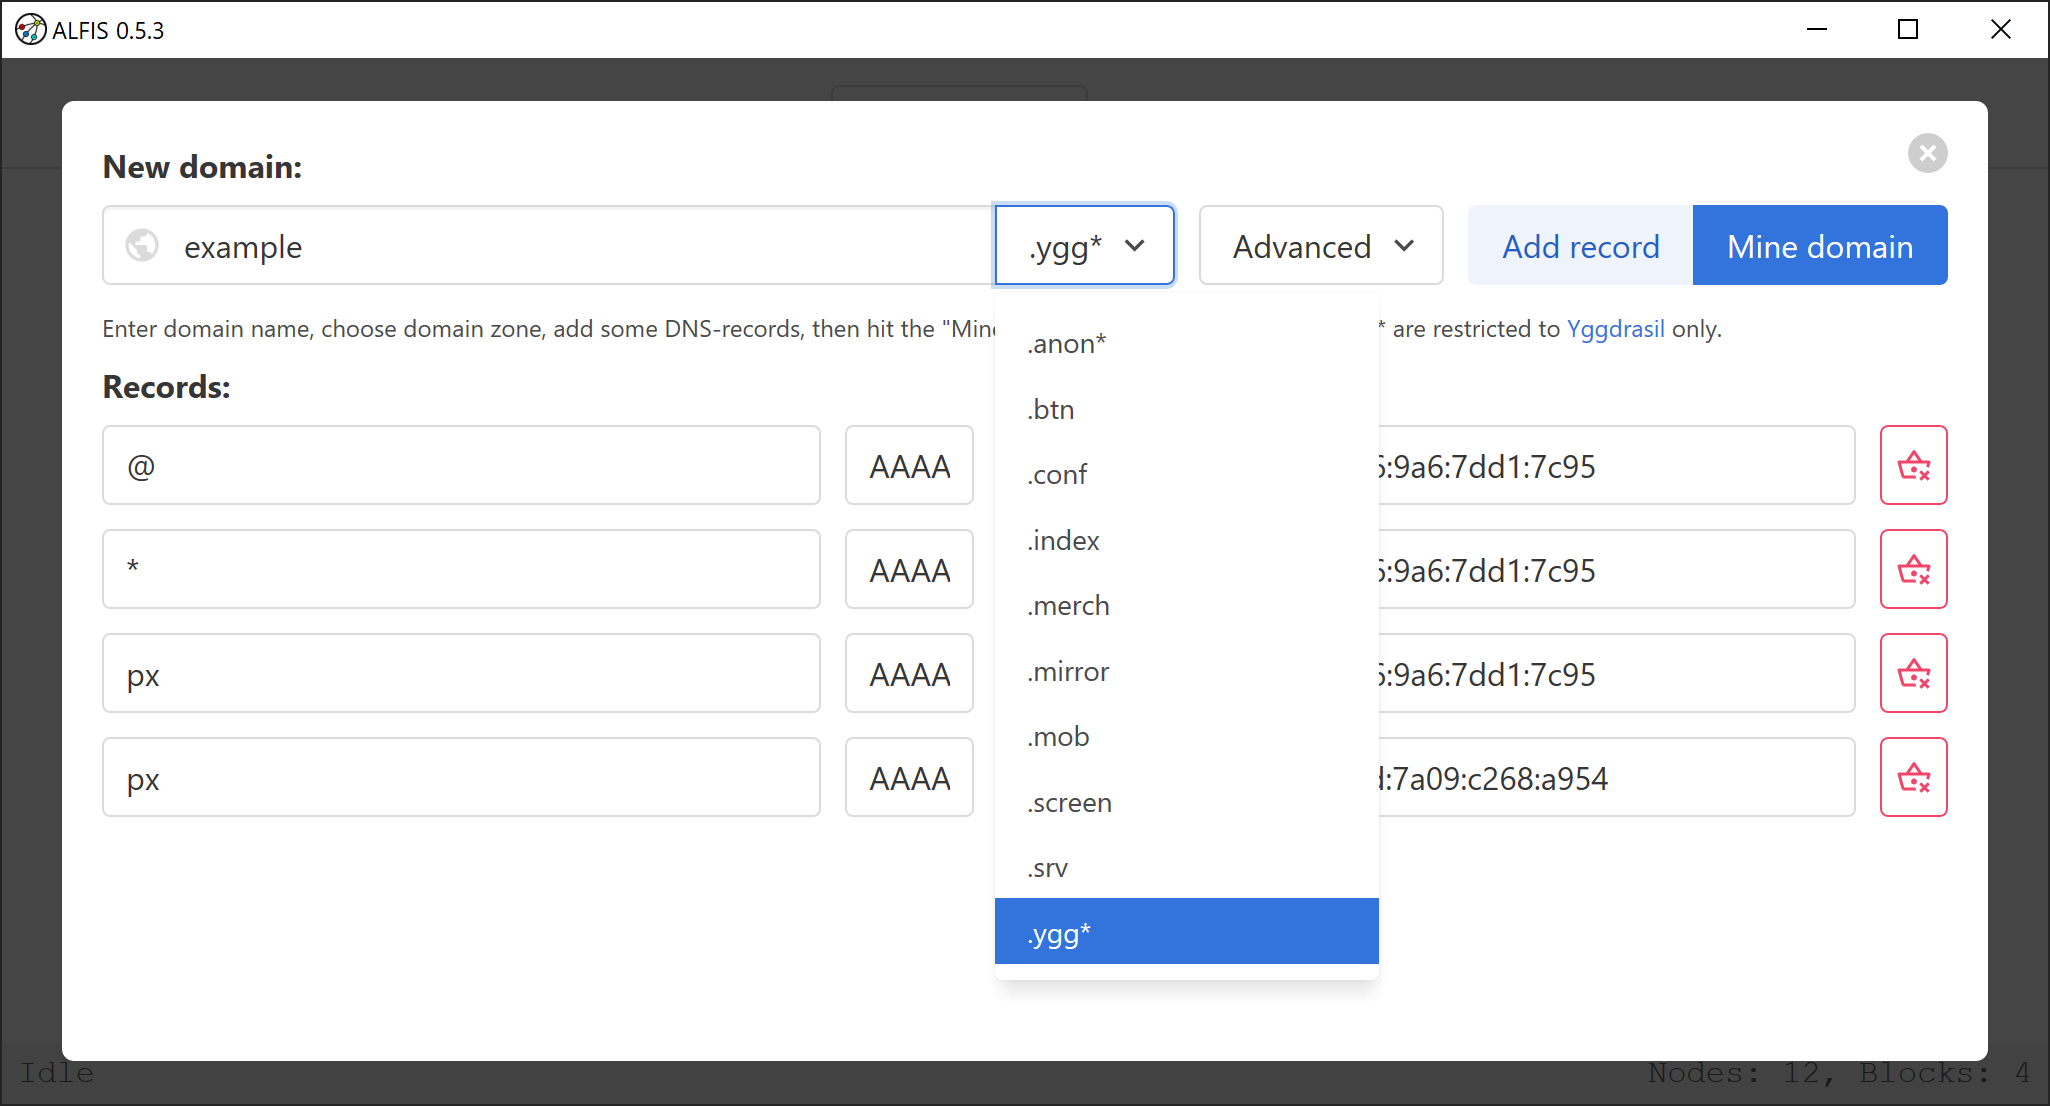
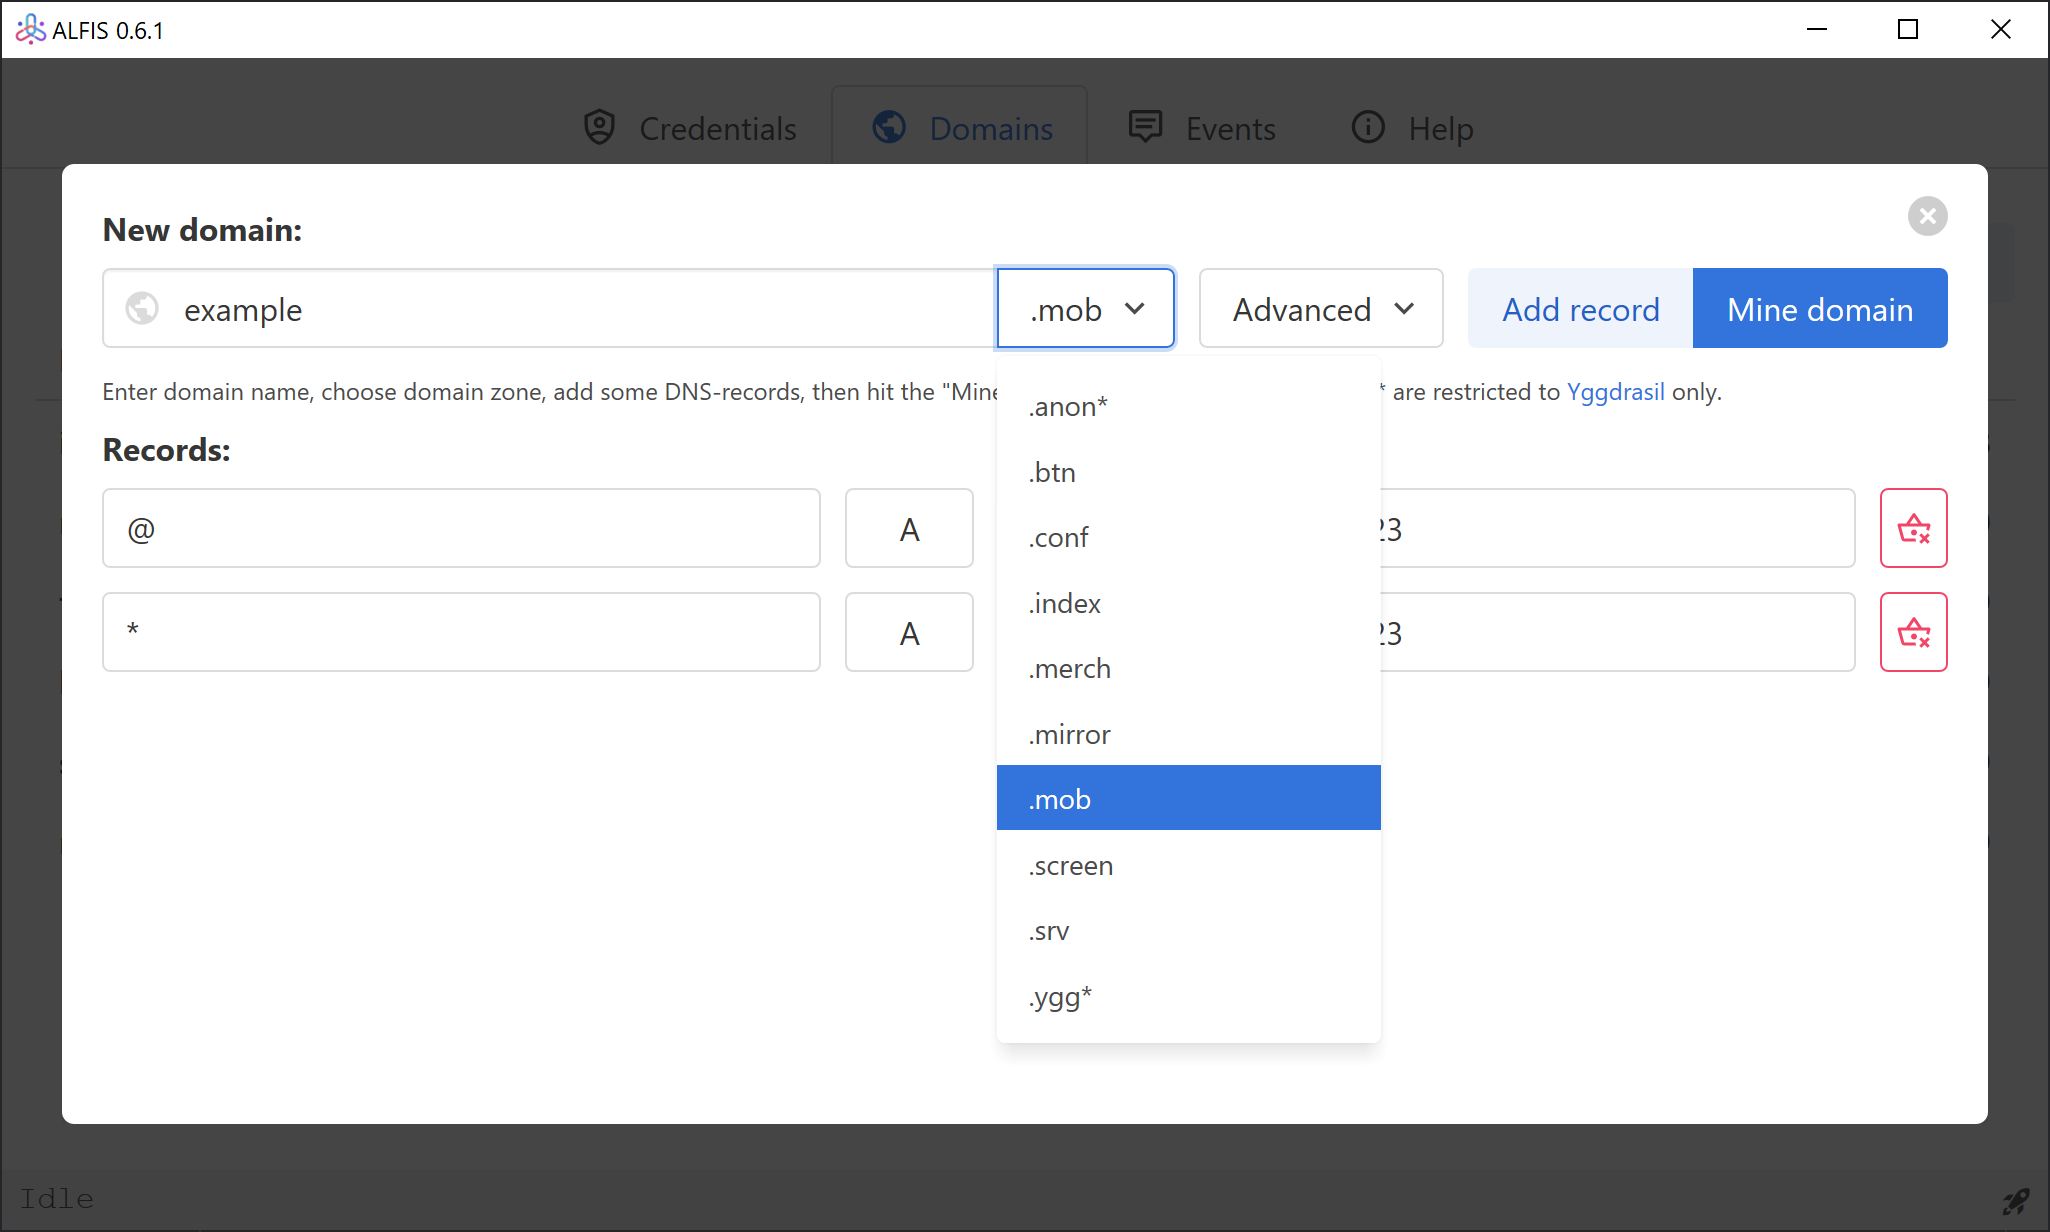
Updated readme.

diff --git a/README.md b/README.md
@@ -8,10 +8,9 @@ This project represents a minimal blockchain without cryptocurrency, capable of 
 
 ![Screenshot](img/keys.png)
 
-![Screenshot](img/domains.png)
+![Screenshot](img/domains2.png)
 
-## Note
[1 lines of base64/hex data omitted]
+![Screenshot](img/domains.png)
 
 ## How it works?
 Every node connects to its siblings and synchronizes the domain database.
@@ -25,8 +24,7 @@ But, `.anon` and `.ygg` are bound to have IP-addresses from Yggdrasil Network on
 ### On every OS
 You can download and run already built binaries from [releases](https://github.com/Revertron/Alfis/releases), or you can build project yourself.
 
-You can build Alfis by issuing `cargo build` and `cargo run` commands in a directory of cloned repository.
-If you want to build release version you need to do `cargo build --release` as usual.
+You can build Alfis by issuing `cargo build --release` and `cargo run --release` commands in a directory of cloned repository.
 
 ### ![Windows Logo](/img/windows.svg) On Windows
 You don't need any additional steps to build Alfis, just stick to the MSVC version of Rust.
@@ -57,7 +55,7 @@ yay -S alfis
 ```
 
 ### ![NixOS Logo](https://nixos.org/favicon.ico) On Nix/NixOS
-`nix-shell` in this repo and then run `cargo build` and `cargo install` after you have entered the shell.
+`nix-shell` in this repo and then run `cargo build --release` and `cargo install` after you have entered the shell.
 
 ## Installation
 
@@ -97,5 +95,5 @@ If you want it to load config from another file you can command it so: `alfis -c
 ## Roadmap
 1. Stabilize blockchain functions (domain transfer, info & contacts in UI), bug hunting and fixing.
 2. Change DNS server/proxy to own resource saving implementation (using trust-dns-proto for RR parsing).
-3. P2P traffic encryption (ECDH).
+3. P2P traffic encryption (ECDH). ✅
 4. Web-GUI to manage you node from browser.
